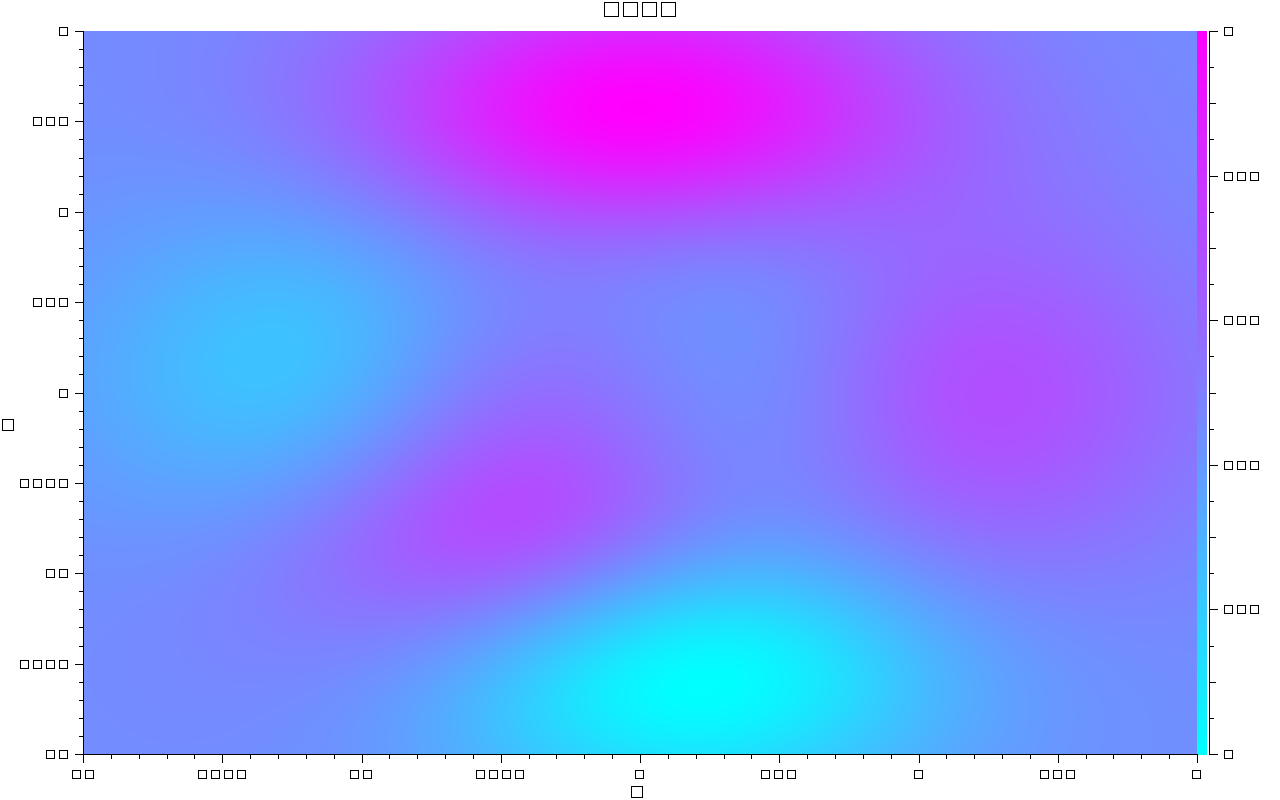
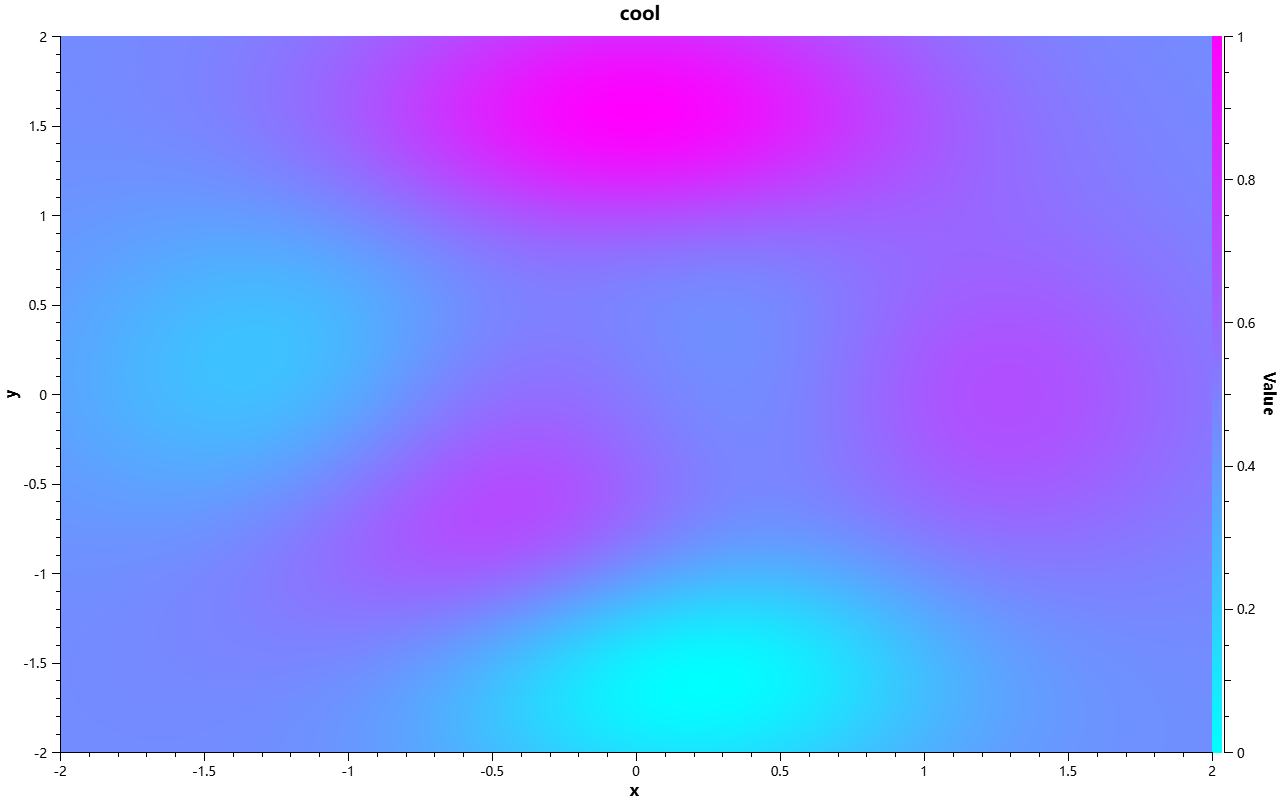
fix(example): 修复 colormap 截图模式文字渲染为方框
--screenshot 原先无条件强制 QT_QPA_PLATFORM=offscreen，而 offscreen
平台插件没有字体数据库（ QFontDatabase::families() 为空 ），全部
字符退化为 .notdef 方框。现改为仅在没有窗口系统（无头 Linux CI）时
才回退 offscreen，桌面平台使用与界面一致的窗口系统渲染，导出的
标题/刻度/颜色条文字与窗口所见一致；显式设置的 QT_QPA_PLATFORM
仍然优先。

重新生成 24 张效果图（文字正常），并更新中英文文章中关于 offscreen
的描述；顺带修复 QString::count() 的弃用告警。

Changed region(s): [[0.0312, 0.0, 1.0, 0.9688]]

diff --git a/examples/2D/colormap/main.cpp b/examples/2D/colormap/main.cpp
@@ -3,6 +3,7 @@
 #include <QApplication>
 
 #include <cstdio>
+#include <cstdlib>
 
 #include <QByteArray>
 #include <QString>
@@ -22,7 +23,7 @@ namespace
             const QString argument = QString::fromLocal8Bit(argv[ i ]);
 
             if (argument.startsWith(kScreenshotOption + QLatin1Char('=')))
-                return argument.mid(kScreenshotOption.count() + 1);
+                return argument.mid(kScreenshotOption.size() + 1);
 
             if (argument == kScreenshotOption && i + 1 < argc)
                 return QString::fromLocal8Bit(argv[ i + 1 ]);
@@ -36,6 +37,32 @@ namespace
         printf("Usage: colormap [--screenshot <directory>]\n");
         printf("  Without arguments all 22 colormap presets are shown in a window.\n");
         printf("  With --screenshot <directory> one PNG per preset is written to <directory>.\n");
+    }
+
+    /**
+        @brief Prepare the platform plugin for the screenshot mode
+        @details The exported images are rendered by the paint engine of the
+                 platform plugin, what also decides about the fonts of the
+                 text: the offscreen plugin has no font database and falls
+                 back to a box for every character. Therefore the platform
+                 of the window system is used whenever there is one, and the
+                 offscreen plugin only when there is none ( headless CI ),
+                 where it is the only way to write the images at all.
+
+                 An explicitly set QT_QPA_PLATFORM always wins.
+     */
+    void preparePlatformForScreenshotMode()
+    {
+        if (!qEnvironmentVariableIsEmpty("QT_QPA_PLATFORM"))
+            return;
+
+#if defined(Q_OS_WIN) || defined(Q_OS_MACOS)
+        // A window system is always available on the desktop platforms
+        return;
+#else
+        if (std::getenv("DISPLAY") == nullptr && std::getenv("WAYLAND_DISPLAY") == nullptr)
+            qputenv("QT_QPA_PLATFORM", QByteArrayLiteral("offscreen"));
+#endif
     }
 }
 
@@ -53,12 +80,9 @@ int main(int argc, char* argv[])
 
     const QString directory = screenshotDirectory(argc, argv);
 
+    // The platform plugin has to be selected before the QApplication
     if (!directory.isEmpty())
-    {
-        // No window is necessary for writing the images, but
-        // QT_QPA_PLATFORM=offscreen needs to be set before the QApplication
-        qputenv("QT_QPA_PLATFORM", QByteArrayLiteral("offscreen"));
-    }
+        preparePlatformForScreenshotMode();
 
     QApplication app(argc, argv);
 

diff --git a/docs/use-guide/colormap.md b/docs/use-guide/colormap.md
@@ -113,7 +113,7 @@ What is written:
 | `overview.png` | a 2×11 grid of all gradients |
 | `colormap.png` | a screenshot of the window itself |
 
-Screenshot mode switches the application to the `offscreen` platform plugin, so it runs without a display (CI, docs builds, article illustrations). The `Save Screenshots...` toolbar button does the same from within the GUI.
+Screenshot mode renders through the same window system as the GUI, so the text in the exported images (titles, tick labels, color bar labels) matches what is seen in the window. Without a display (headless Linux CI) it falls back to the `offscreen` platform plugin — the images are still written, but every character degenerates to a box. Setting the `QT_QPA_PLATFORM` environment variable overrides this choice. The `Save Screenshots...` toolbar button does the same from within the GUI.
 
 ## All 22 Presets at a Glance
 

diff --git a/docs/zh/use-guide/colormap.md b/docs/zh/use-guide/colormap.md
@@ -115,7 +115,7 @@ QVector< QPair< double, QColor > > stops = QwtColorMapPreset::colorStops(QwtColo
 | `overview.png` | 22 种色带渐变的 2×11 总览图 |
 | `colormap.png` | 示例程序界面截图 |
 
-该模式内部会自动切换到 `offscreen` 平台，因此无需显示器即可运行，适合 CI、文档站与文章插图场景；GUI 上的 `Save Screenshots...` 按钮与之等价。
+该模式复用界面的窗口系统渲染，导出的文字（标题、刻度、颜色条标签）与窗口中看到的一致；在没有显示器的环境（如无头 Linux CI）中会自动回退到 `offscreen` 平台——此时图片仍可生成，但文字会退化成方框。显式设置 `QT_QPA_PLATFORM` 环境变量可覆盖此行为。GUI 上的 `Save Screenshots...` 按钮与之等价。
 
 ## 22 种预设效果总览
 
